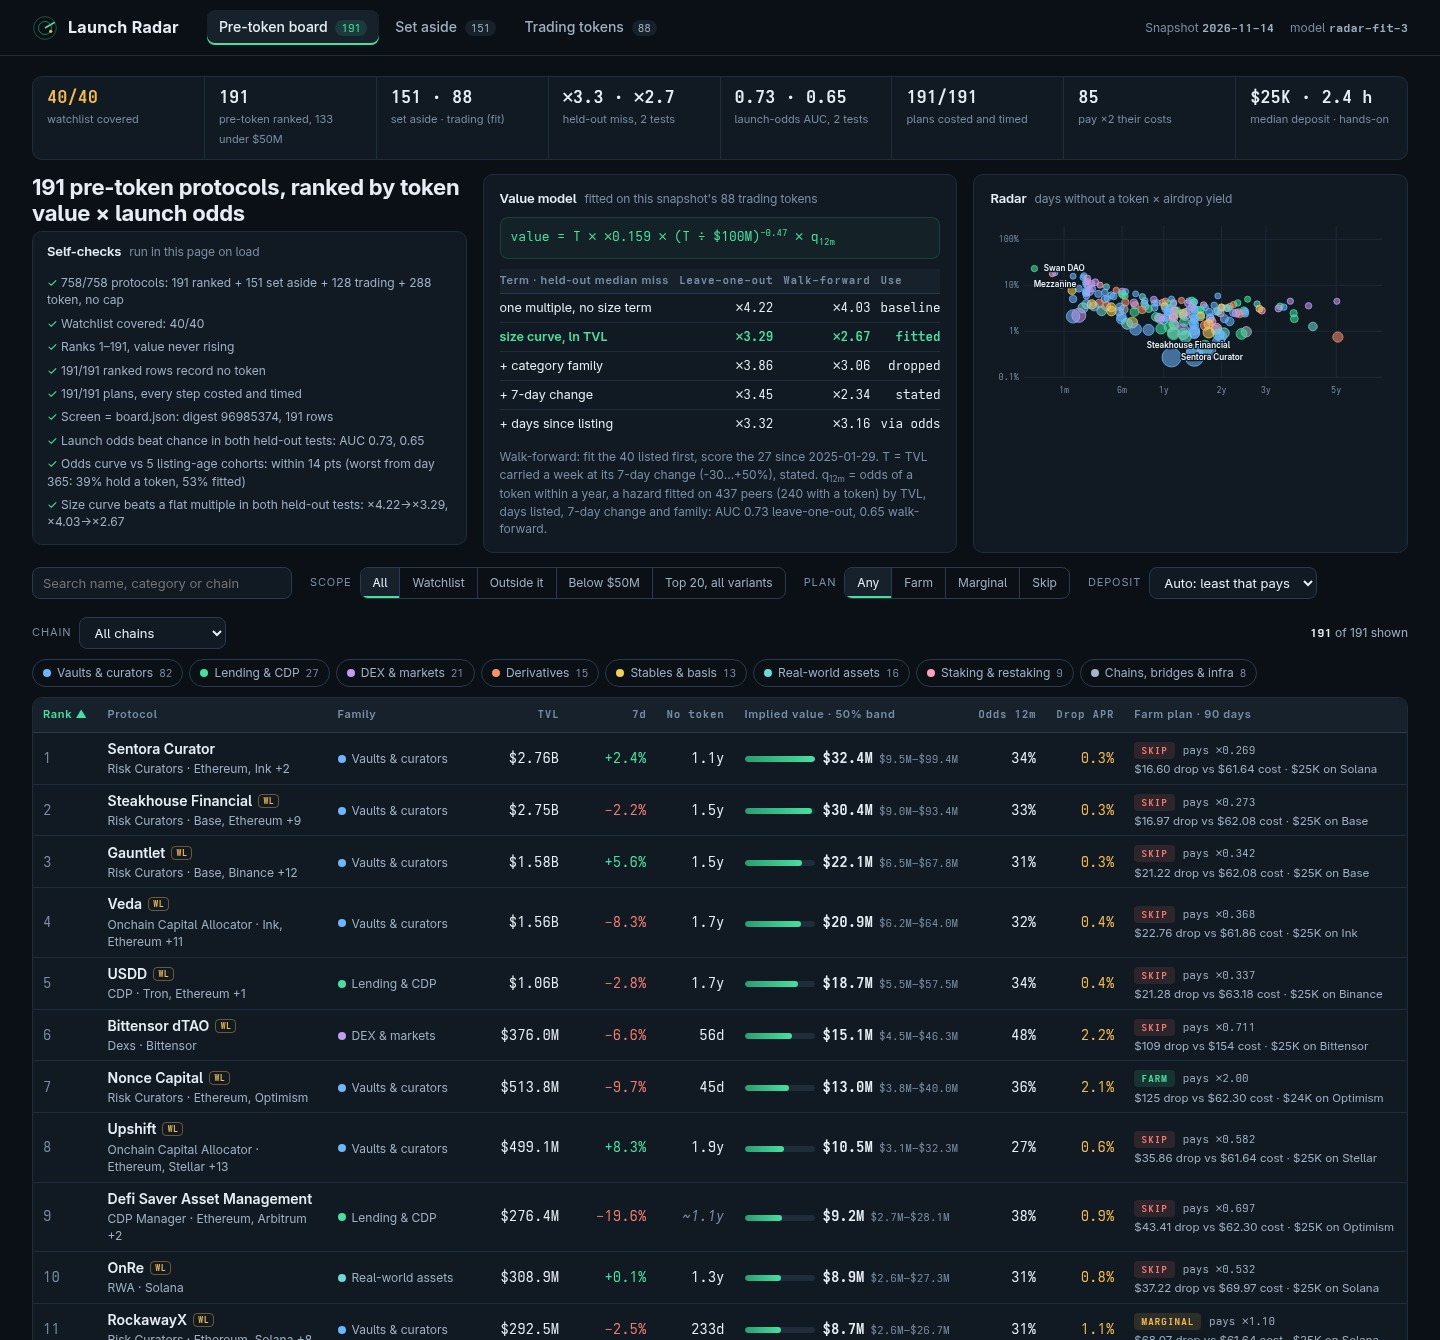
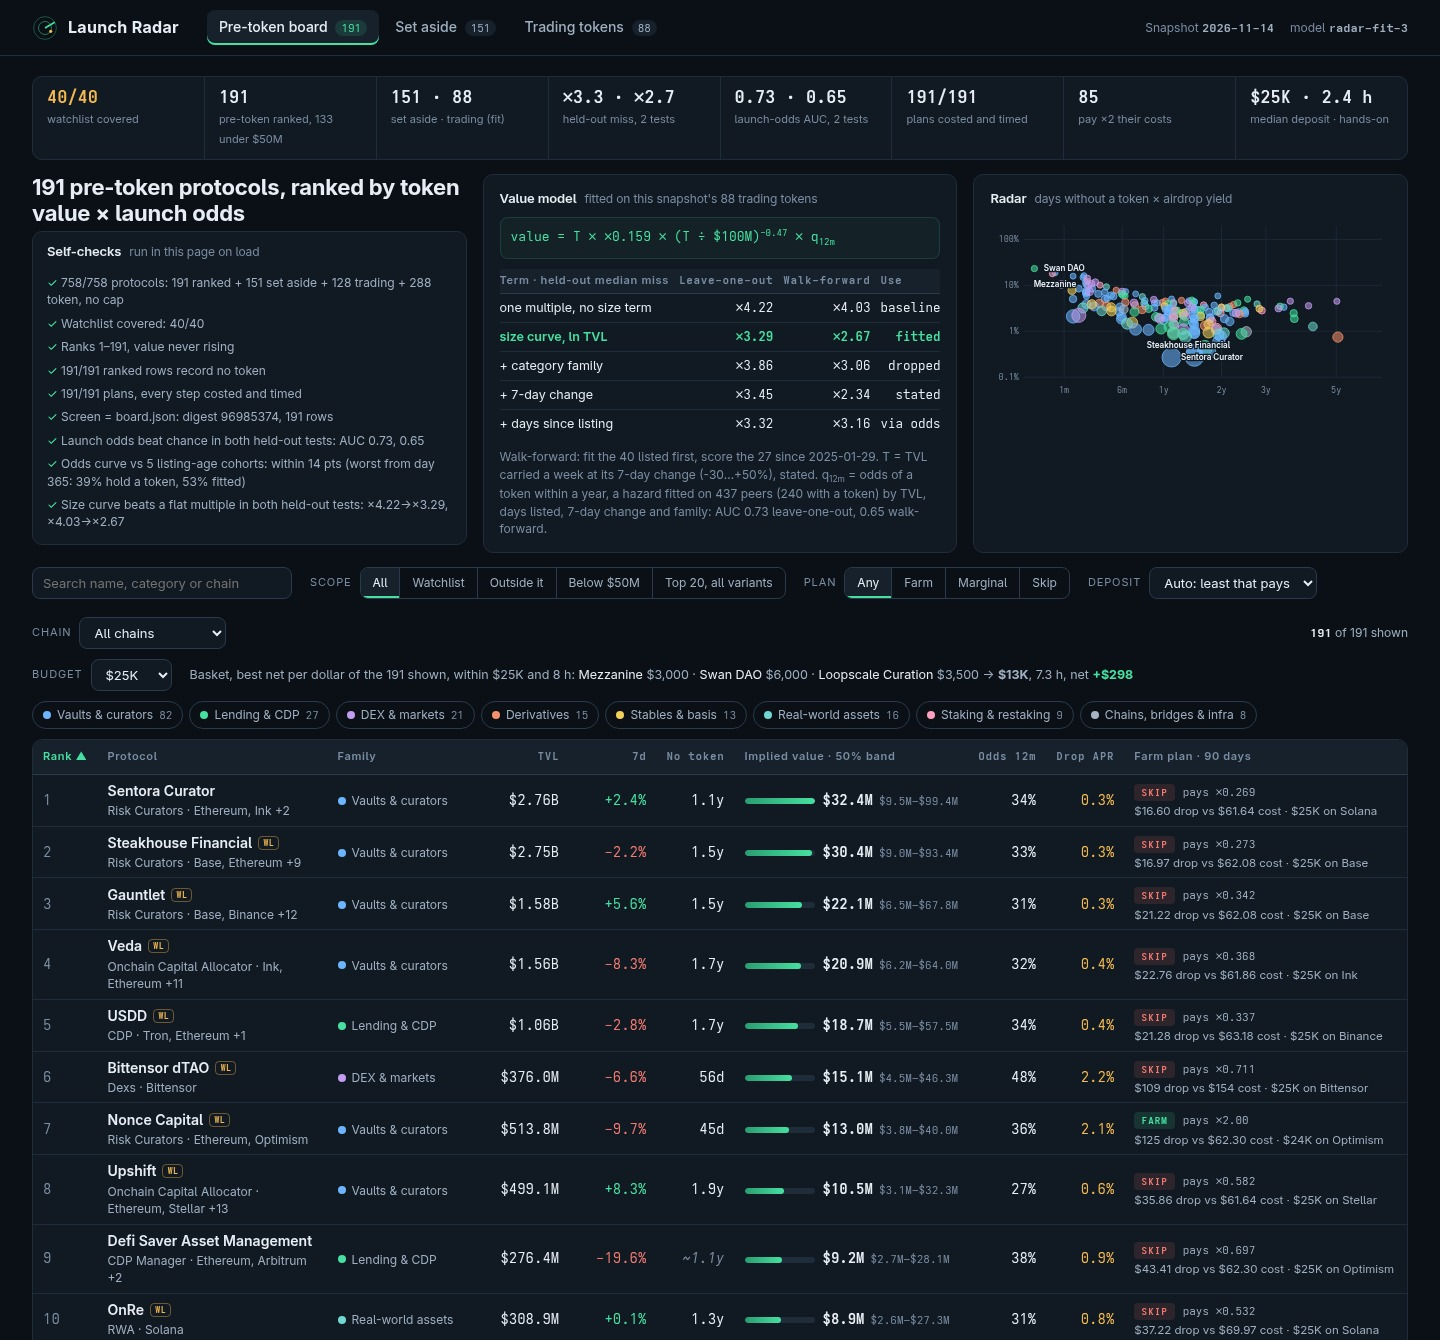
Budget basket: the shown plans with the best net per dollar within a reader-set budget and 8 hands-on hours (style.css tail now cut in the dossier)

diff --git a/dashboard/app.js b/dashboard/app.js
@@ -23,7 +23,8 @@
   const verdictTag = (v) => `<span class="verdict v-${v}">${v}</span>`;
   const maxImplied = rows[0].v.implied;
 
-  const DEF = { view: 'board', q: '', fam: '', chain: '', scope: 'all', verdict: '', sort: 'rank', dir: 'asc', p: '', dep: '' };
+  const DEF = { view: 'board', q: '', fam: '', chain: '', scope: 'all', verdict: '', sort: 'rank', dir: 'asc', p: '', dep: '', bud: '25000' };
+  const HOURS = 8;
   function readHash() {
     const st = Object.assign({}, DEF);
     const own = (o, k) => Object.prototype.hasOwnProperty.call(o, k);
@@ -32,7 +33,7 @@
       if (i > 0 && own(DEF, k)) try { st[k] = decodeURIComponent(kv.slice(i + 1)); } catch (e) { /* keep the default */ }
     });
     // Unknown values fall back to the defaults, so a hand-typed link never breaks the page.
-    const ok = { view: 'board aside trading', scope: 'all watch early outside stable', verdict: ' farm marginal skip', dir: 'asc desc', dep: ' 1000 5000 10000 25000' };
+    const ok = { view: 'board aside trading', scope: 'all watch early outside stable', verdict: ' farm marginal skip', dir: 'asc desc', dep: ' 1000 5000 10000 25000', bud: '10000 25000 50000 100000' };
     Object.keys(ok).forEach((k) => { if (!ok[k].split(' ').includes(st[k])) st[k] = DEF[k]; });
     if (!own(KEYS, st.sort)) st.sort = 'rank';
     return st;
@@ -146,6 +147,10 @@
       const on = fams.includes(f[0]), next = on ? fams.filter((x) => x !== f[0]) : fams.concat(f[0]);
       return `<a href="${link({ fam: next.join(',') })}" class="chip f-${f[0]}${on ? ' on' : ''}"><i></i>${esc(f[1])} <b>${famCount[f[0]] || 0}</b></a>`;
     }).join('');
+    // Basket (#07): shown plans with a positive net, best net per dollar first, while the budget and HOURS last.
+    let cap = 0, hrs = 0;
+    const pick = shown.filter((r) => r.plan.net > 0).sort((a, b) => b.plan.net / b.plan.stake - a.plan.net / a.plan.stake)
+      .filter((r) => cap + r.plan.stake <= +st.bud && hrs + r.plan.minutes / 60 <= HOURS && (cap += r.plan.stake, hrs += r.plan.minutes / 60));
     const active = st.q || st.fam || st.chain || st.scope !== 'all' || st.verdict || st.dep;
     const body = shown.map((r) => {
       const w = Math.max(1.5, 100 * Math.sqrt(r.v.implied / maxImplied));
@@ -187,6 +192,8 @@
       <label class="field"><span>Chain</span><select id="chain"><option value="">All chains</option>${Object.keys(chains).sort((a, b) => chains[b] - chains[a] || (a < b ? -1 : 1)).map((c) => `<option${c === st.chain ? ' selected' : ''}>${esc(c)}</option>`).join('')}</select></label>
       <div class="count"><b>${shown.length}</b> of ${rows.length} shown${active ? ` · <a href="${link({ q: '', fam: '', chain: '', scope: 'all', verdict: '', dep: '' })}">clear filters</a>` : ''}</div>
     </section>
+    <section class="filters basket"><label class="field"><span>Budget</span><select id="bud">${[10000, 25000, 50000, 100000].map((d) => `<option value="${d}"${String(d) === st.bud ? ' selected' : ''}>${usd(d)}</option>`).join('')}</select></label>
+      <span>Basket, best net per dollar of the ${shown.length} shown, within ${usd(+st.bud)} and ${HOURS} h: ${pick.map((r) => `<a href="${link({ p: r.p.slug })}">${esc(r.p.name)}</a> ${usd(r.plan.stake)}`).join(' · ') || 'none pays'} → <b>${usd(cap)}</b>, ${hrs.toFixed(1)} h, net <b class="up">+${usd(pick.reduce((s, r) => s + r.plan.net, 0))}</b></span></section>
     <section class="filters"><div class="chips" role="group" aria-label="Family">${famLinks}</div></section>
     <div class="tablewrap"><table class="board">
       <thead><tr>${th('rank', 'Rank')}${th('name', 'Protocol')}<th>Family</th>${th('tvl', 'TVL', 'num')}${th('g', '7d', 'num')}${th('age', 'No token', 'num')}${th('value', 'Implied value · 50% band', 'val')}${th('odds', 'Odds 12m', 'num')}${th('apr', 'Drop APR', 'num')}${th('plan', 'Farm plan · 90 days', 'plan')}</tr></thead>
@@ -287,7 +294,7 @@
       typing = setTimeout(() => { typing = null; history.replaceState(null, '', link({ q: val })); render(); const q = document.getElementById('q'); if (q) { q.focus(); q.setSelectionRange(val.length, val.length); } }, 160);
     }
   });
-  app.addEventListener('change', (e) => { if (e.target.id === 'chain' || e.target.id === 'dep') go({ [e.target.id]: e.target.value }); });
+  app.addEventListener('change', (e) => { if (['chain', 'dep', 'bud'].includes(e.target.id)) go({ [e.target.id]: e.target.value }); });
   ['click', 'keydown'].forEach((ev) => app.addEventListener(ev, (e) => {
     const tr = e.target.closest('tr[data-slug]');
     if (tr && !e.target.closest('a') && (ev === 'click' || e.key === 'Enter')) go({ p: tr.dataset.slug });

diff --git a/dashboard/style.css b/dashboard/style.css
@@ -156,3 +156,5 @@ td.proto{min-width:230px;}
 .intro p{color:var(--muted);margin:0;}
 .split{display:grid;grid-template-columns:330px 1fr;gap:16px;align-items:start;}
 .foot{max-width:1440px;margin:0 auto;padding:8px 32px 28px;color:var(--dim);font-size:11.5px;}
+.basket{font-size:12.5px;color:var(--muted);flex-wrap:nowrap;}
+.basket a{color:var(--text);}
